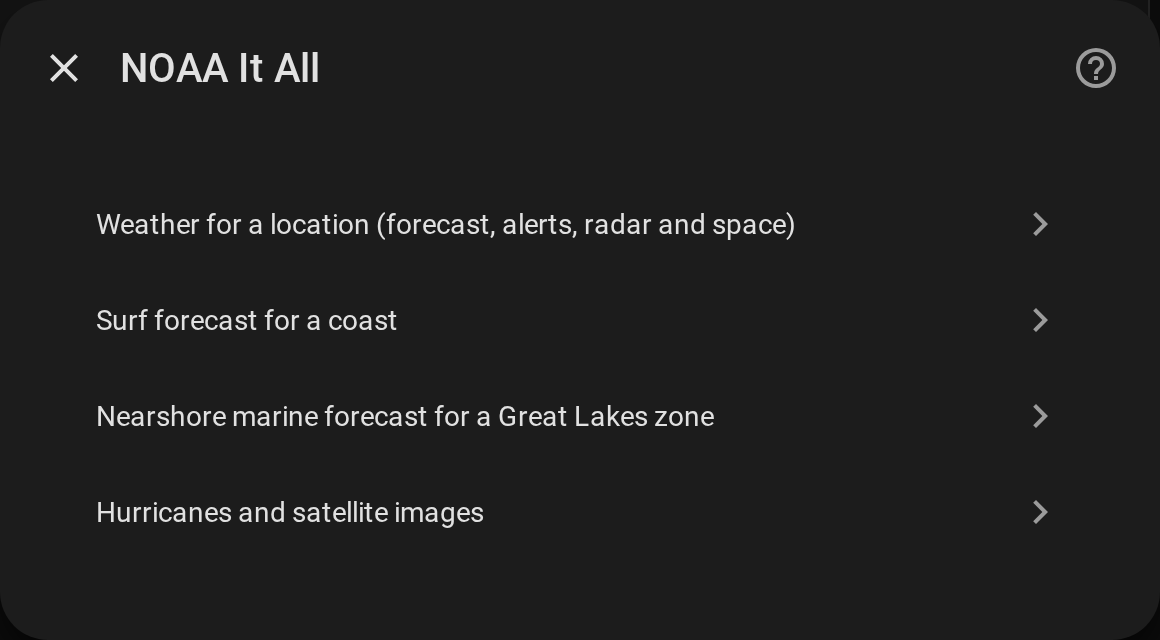
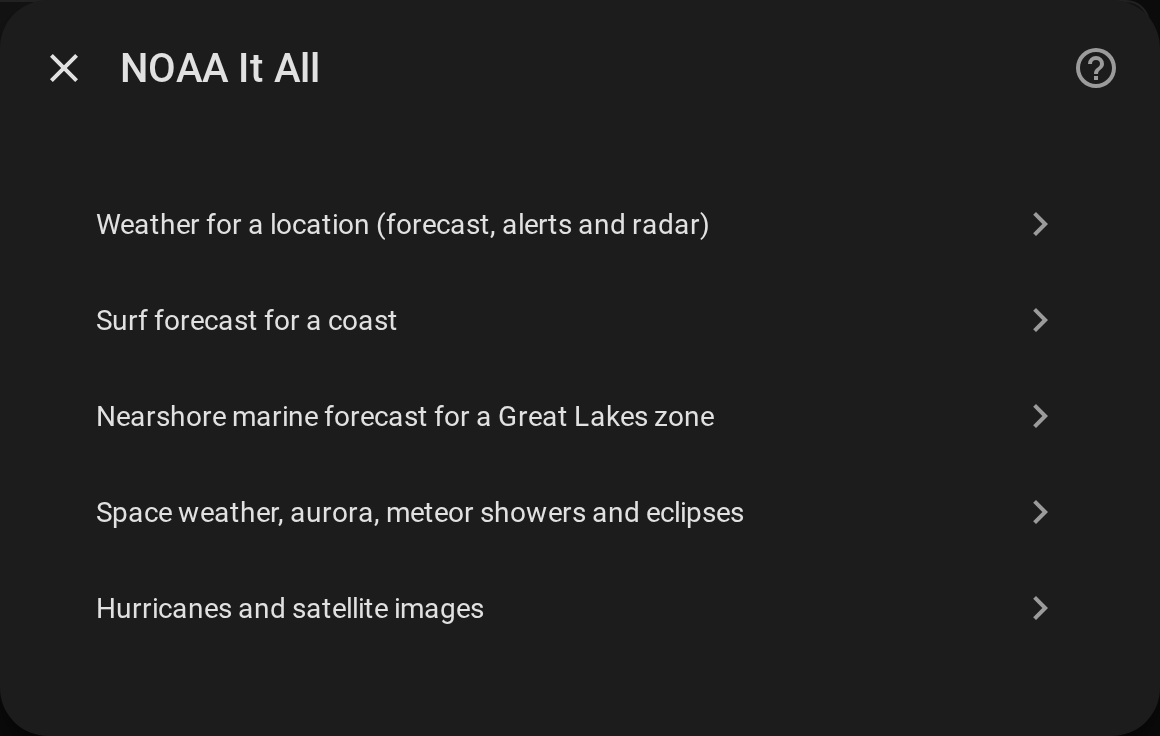
Document Space entries
The setup steps, entry list, device groups and upgrade notes describe Space as an entry of its own, with screenshots of the new menu, the Space step and the entries page from Home Assistant 2026.10.1.

diff --git a/README.md b/README.md
@@ -45,26 +45,27 @@ Requires Home Assistant **2026.3.0** or newer.
 
 ### Configuration
 
-The integration has four kinds of entry, each listed separately under **Settings → Devices & services → NOAA It All**:
+The integration has five kinds of entry, each listed separately under **Settings → Devices & services → NOAA It All**:
 
-| Entry | Title | Devices |
+| Entry | Title | Device |
 |---|---|---|
-| Weather for a location | `NOAA Weather - Wilmington, NC` | `NOAA ILM Weather`, `NOAA ILM Space` |
+| Weather for a location | `NOAA Weather - Wilmington, NC` | `NOAA ILM Weather` |
 | Surf forecast for a coast | `NOAA Surf - Wilmington, NC` | `NOAA ILM Surf` |
 | Nearshore marine forecast for a Great Lakes zone | `NOAA Marine - Wilmette Harbor to Northerly Island IL` | `NOAA LMZ741 Marine` |
+| Space weather, aurora, meteor showers and eclipses | `NOAA Space - Wilmington, NC` | `NOAA ILM Space` |
 | Hurricanes and satellite images | `NOAA Hurricane` | `NOAA Hurricane` |
 
 <p align="left">
-<img width="560" alt="The NOAA It All page under Devices &amp; services, with a Hurricane, a Marine, a Surf and a Weather entry" src="docs/images/entries.png" />
+<img width="560" alt="The NOAA It All page under Devices &amp; services, with a Hurricane, a Marine, a Space, a Surf and a Weather entry" src="docs/images/entries.png" />
 </p>
 
 #### Add a location
 
 1. Go to **Settings** → **Devices & services** → **Add integration**, search for "NOAA It All", and choose **Weather for a location**.
 
-   <img width="420" alt="The NOAA It All setup menu: Weather for a location, Surf forecast for a coast, Nearshore marine forecast for a Great Lakes zone, Hurricanes and satellite images" src="docs/images/setup-menu.png" />
+   <img width="420" alt="The NOAA It All setup menu: Weather for a location, Surf forecast for a coast, Nearshore marine forecast for a Great Lakes zone, Space weather, aurora, meteor showers and eclipses, Hurricanes and satellite images" src="docs/images/setup-menu.png" />
 
-2. Enter the **latitude and longitude** (required). They're pre-filled from your Home Assistant Home zone; change them to use another location. Observations come from the NWS station nearest to them, and alerts, forecasts, cloud cover, aurora, meteor shower and eclipse entities use them too.
+2. Enter the **latitude and longitude** (required). They're pre-filled from your Home Assistant Home zone; change them to use another location. Observations come from the NWS station nearest to them, and alerts, forecasts and cloud cover use them too, as does the Space entry added in step 5.
 
    <img width="420" alt="Weather for a Location step with latitude and longitude fields" src="docs/images/setup-location.png" />
 
@@ -79,13 +80,19 @@ The integration has four kinds of entry, each listed separately under **Settings
 
    <img width="420" alt="Choose Surf Forecast Office step with ILM - Wilmington, NC selected" src="docs/images/setup-surf.png" />
 
-5. Assign the devices to areas, or choose **Skip and finish**. A weather entry has two devices, `NOAA ILM Weather` and `NOAA ILM Space`. The surf entry, and the hurricane entry on a first setup, are added alongside it.
+5. Choose **Space**: space weather, aurora, meteor showers and eclipses, as a `NOAA Space` entry named after the forecast office. `NOAA ILM Space - this location` adds it, worked out for this location. Each office has one Space entry:
+   - **already added** means the office has one already. The location shares it, and it stays at its own location.
+   - The other offices' Space entries are listed as **already added** too. Choosing one, or **No space data**, adds nothing.
 
-   <img width="420" alt="Name and assign step listing the NOAA ILM Space and NOAA ILM Weather devices" src="docs/images/setup-devices.png" />
+   <img width="420" alt="Add Space step with NOAA ILM Space - this location selected" src="docs/images/setup-space.png" />
+
+6. Assign the device to an area, or choose **Skip and finish**. A weather entry has one device, `NOAA ILM Weather`. The surf and Space entries, and the hurricane entry on a first setup, are added alongside it.
+
+   <img width="420" alt="Name and assign step listing the NOAA ILM Weather device" src="docs/images/setup-devices.png" />
 
 A location set up as the integration's first entry also adds the `NOAA Hurricane` entry. Delete it if you don't want hurricane and satellite entities; nothing adds it back.
 
-#### Add more beaches, marine zones or hurricanes
+#### Add more beaches, marine zones, Space or hurricanes
 
 Use **Add entry** on the NOAA It All page and pick from the same menu. **Hurricanes and satellite images** is only offered while there's no `NOAA Hurricane` entry.
 
@@ -97,13 +104,19 @@ Use **Add entry** on the NOAA It All page and pick from the same menu. **Hurrica
 
   <img width="420" alt="Nearshore Marine Forecast step with LMZ741 entered as the marine zone ID" src="docs/images/setup-marine.png" />
 
+- **Space weather, aurora, meteor showers and eclipses** asks for a location, pre-filled from your Home zone, then the forecast office it's named after. Use it for aurora, meteor showers and eclipses somewhere other than your weather locations, such as a cabin near Marquette (`NOAA MQT Space`). Each office has one Space entry, so an office that has one is refused.
+
 #### Change a location
 
-**Configure** (the gear on a `NOAA Weather` entry) walks through the latitude and longitude, the forecast office, then how many hours the radar loop covers (see [Radar loop history](#image-entities)). Surf, marine and hurricane entries have nothing to configure: add or delete them instead.
+**Configure** (the gear on a `NOAA Weather` entry) walks through the latitude and longitude, the forecast office, then how many hours the radar loop covers (see [Radar loop history](#image-entities)). Surf, marine, Space and hurricane entries have nothing to configure: add or delete them instead. A Space entry doesn't move with a weather entry; for a new office, add Space there and delete the old one.
 
 <p align="left">
 <img width="420" alt="Radar Loop History options step with Hours of radar history set to 24" src="docs/images/options-radar.png" />
 </p>
+
+#### Upgrading from 0.9.x
+
+Upgrading moves each weather entry's `NOAA {OFFICE} Space` device into a `NOAA Space` entry for its office, at that entry's location, keeping the entity IDs and history. Weather entries in the same office share one Space entry. Going back to 0.9.x afterwards needs the integration removed and added again.
 
 #### Upgrading from 0.7.x
 
@@ -118,7 +131,7 @@ Upgrading splits each existing entry once: the location becomes a `NOAA Weather`
 
 ## Device Grouping and Organization
 
-Every entity belongs to one of five kinds of device. A weather entry has a Weather and a Space device for its office, and each surf, marine and hurricane entry has one device. The screenshots below are from a Wilmington, NC (ILM) setup.
+Every entity belongs to one of five kinds of device, one for each kind of entry. The screenshots below are from a Wilmington, NC (ILM) setup.
 
 ### Device Groups Overview
 
@@ -134,9 +147,10 @@ Location-specific weather observations, forecasts, alerts and radar, in the `NOA
 </p>
 
 #### 🌌 NOAA {OFFICE} Space
-Space weather (geomagnetic storms, Kp, aurora, solar radiation storms) plus the meteor shower and eclipse forecasts, in the `NOAA Weather - <office>` entry
+Space weather (geomagnetic storms, Kp, aurora, solar radiation storms) plus the meteor shower and eclipse forecasts, in the office's `NOAA Space - <office>` entry
 - **Device ID**: `noaa_{office}_space` (e.g., `noaa_ILM_space`)
-- **Location**: Space weather is global; aurora, meteor shower and eclipse entities use your configured latitude and longitude
+- **Location**: Space weather is global; aurora, meteor shower and eclipse entities use the Space entry's location
+- **More than one Space entry**: space weather is the same everywhere, so these show the same values in each: Planetary K-index and its rating, Geomagnetic Storm and its interpretation, Solar Radiation Storm Alerts, and the Geoelectric Field and Aurora Forecast images. Aurora, meteor shower and eclipse entities are worked out for each entry
 - **Update Frequency**: 10 minutes for space weather and its images, 30 minutes for meteor showers. Eclipses recompute hourly, every 5 minutes in the 6 hours before one, and every minute while one is under way
 - **Entities**: 20: eight space weather sensors, three meteor shower and four eclipse sensors, three binary sensors, and two images
 
@@ -328,7 +342,7 @@ Location-aware aurora visibility predictions *(NOAA Space)*:
 - **Aurora Duration**: Estimated length of aurora visibility in hours based on geomagnetic conditions *(sensor.noaa_{office}_space_aurora_duration)*
 - **Aurora Visibility Probability**: Percentage chance of aurora visibility from your specific location *(sensor.noaa_{office}_space_aurora_visibility_probability)*
 
-> **Note**: Aurora predictions are based on real-time Kp index data and the magnetic latitude of your office (for the coastal offices) or of your configured location (for any other office). Northern locations (like Duluth, MN) have much higher visibility potential than southern locations (like Miami, FL).
+> **Note**: Aurora predictions are based on real-time Kp index data and the magnetic latitude of the Space entry's office (for the coastal offices) or of its location (for any other office). Northern locations (like Duluth, MN) have much higher visibility potential than southern locations (like Miami, FL).
 
 ### Solar Radiation Storm Alerts
 Location-aware monitoring of solar radiation storm activity *(NOAA Space)*:
@@ -434,7 +448,7 @@ These sensors provide additional weather data where available from NOAA/NWS *(NO
 ### Image Entities
 Visual representations of current conditions:
 
-**NOAA {OFFICE} Space** (global images, one set per weather entry):
+**NOAA {OFFICE} Space** (global images, one set per Space entry):
 - **Geoelectric Field Image** — Real-time geoelectric field map from SWPC *(image.noaa_{office}_space_geoelectric_field_image)*
 - **Aurora Forecast Image** — SWPC's aurora forecast map for the northern hemisphere *(image.noaa_{office}_space_aurora_forecast_image)*
 
@@ -1540,7 +1554,7 @@ content: |
 
 ### Entities Not Appearing
 - Ensure you completed setup with valid latitude and longitude
-- Surf entities are in their own `NOAA Surf` entry, and hurricane and satellite entities in the `NOAA Hurricane` entry. If you chose **No surf data** or deleted the hurricane entry, add them back with **Add entry**
+- Surf entities are in their own `NOAA Surf` entry, space weather, aurora, meteor shower and eclipse entities in a `NOAA Space` entry, and hurricane and satellite entities in the `NOAA Hurricane` entry. If you chose **No surf data** or **No space data**, or deleted the hurricane entry, add them back with **Add entry**
 - A new surf entry only gets Water Temperature and Surf Height if its office has a tide station or buoy; see [NWS Forecast Offices](#nws-forecast-offices)
 - After upgrading, reload the Home Assistant page so the new setup screens show
 - Check **Settings** → **System** → **Logs** for any error messages from `noaa_it_all`
@@ -1585,7 +1599,7 @@ A: No. Setup requires latitude and longitude. They are pre-filled from your Home
 A: You don't need to: setup asks NWS which office covers your coordinates and pre-selects it. To look one up yourself, search for your location on [weather.gov](https://www.weather.gov/); the three-letter office code appears in the URL of your local forecast page (e.g., `forecast.weather.gov/MapClick.php?CityName=San+Diego&state=CA&site=SGX`).
 
 **Q: Why don't I see aurora predictions?**
-A: The aurora sensors are on the `NOAA {OFFICE} Space` device of a weather entry. Aurora is only visible at high Kp levels for southern latitudes — check the Planetary K-index value and the `magnetic_latitude` and `required_kp` attributes of Aurora Visibility Probability.
+A: The aurora sensors are on the `NOAA {OFFICE} Space` device of a `NOAA Space` entry. Aurora is only visible at high Kp levels for southern latitudes — check the Planetary K-index value and the `magnetic_latitude` and `required_kp` attributes of Aurora Visibility Probability.
 
 **Q: How often does data update?**
 A: Most entities update every 10 minutes; see [Update Frequency](#update-frequency).

diff --git a/CONFIGURATION.md b/CONFIGURATION.md
@@ -14,9 +14,10 @@ This guide provides detailed configuration examples for NOAA It All, including e
 ## Installation Methods
 
 ### Config Flow
-Setup is done in the UI, and the integration has four kinds of entry: weather for a location, surf
-forecast for a coast, nearshore marine forecast for a Great Lakes zone, and hurricanes and
-satellite images. The [README](README.md#configuration) walks through each with screenshots.
+Setup is done in the UI, and the integration has five kinds of entry: weather for a location, surf
+forecast for a coast, nearshore marine forecast for a Great Lakes zone, Space (space weather,
+aurora, meteor showers and eclipses) and hurricanes and satellite images. The
+[README](README.md#configuration) walks through each with screenshots.
 
 **Steps for a location:**
 1. Navigate to **Settings** → **Devices & services** → **Add integration**
@@ -24,10 +25,13 @@ satellite images. The [README](README.md#configuration) walks through each with 
 3. Enter your **Latitude** and **Longitude** (e.g., 34.2104, -77.8868), pre-filled from your Home zone
 4. Select your NWS Forecast Office. The office NWS names for your location is pre-selected (e.g., ILM for Wilmington)
 5. Choose a surf forecast office, or **No surf data**
-6. Click Submit, then **Skip and finish** or assign the devices to areas
+6. Choose Space for the office, or **No space data**
+7. Click Submit, then **Skip and finish** or assign the device to an area
 
-The surf office becomes its own `NOAA Surf` entry. Add more beaches, marine zones, or the hurricane
-entry later with **Add entry** on the NOAA It All page.
+The surf office becomes its own `NOAA Surf` entry, and Space a `NOAA Space` entry for the forecast
+office, at this location. Each office has one Space entry, which other locations in it share. Add
+more beaches, marine zones, Space for another office, or the hurricane entry later with **Add
+entry** on the NOAA It All page.
 
 **Example Configuration Data:**
 ```yaml
@@ -35,6 +39,12 @@ entry later with **Add entry** on the NOAA It All page.
 entry_type: "weather"
 office_code: "ILM"
 radar_site: "KLTX"
+latitude: 34.2104
+longitude: -77.8868
+
+# A Space entry
+entry_type: "space"
+office_code: "ILM"
 latitude: 34.2104
 longitude: -77.8868
 ```
@@ -51,11 +61,12 @@ longitude: -77.8868
 **Settings** → **Devices & services** → **NOAA It All** → **Configure** (the gear on a
 `NOAA Weather` entry). The flow walks through latitude and longitude, then the forecast office,
 then the radar loop. Saving reloads the entry so the new values take effect immediately. Surf,
-marine and hurricane entries have no options: add or delete them instead.
+marine, Space and hurricane entries have no options: add or delete them instead. A Space entry
+doesn't move with the weather entry.
 
 | Option | Default | Notes |
 |---|---|---|
-| Latitude / Longitude | Home Assistant's Home location | Used for observations, forecasts, alerts, aurora, meteor showers and eclipses |
+| Latitude / Longitude | Home Assistant's Home location | Used for observations, forecasts, alerts and cloud cover |
 | NWS Forecast Office | The office NWS names for those coordinates | Determines the entity IDs, radar site and forecast discussion |
 | Hours of radar history | `24` | Length of the Radar Loop animation, `0`–`24` |
 
@@ -183,9 +194,8 @@ homeassistant:
 
 ## Device Grouping
 
-NOAA It All organizes entities into five kinds of device. A `NOAA Weather` entry has the Weather
-and Space devices for its office; each `NOAA Surf`, `NOAA Marine` and `NOAA Hurricane` entry has
-one device.
+NOAA It All organizes entities into five kinds of device, one for each kind of entry: `NOAA
+Weather`, `NOAA Space`, `NOAA Surf`, `NOAA Marine` and `NOAA Hurricane`.
 
 ### 1. NOAA {OFFICE} Weather (Observations, Forecasts, Alerts & Radar)
 Entities for your configured location, in the `NOAA Weather` entry.
@@ -216,7 +226,10 @@ Entities for your configured location, in the `NOAA Weather` entry.
 
 ### 2. NOAA {OFFICE} Space (Space Weather, Meteor Showers & Eclipses)
 Entities that monitor space weather conditions worldwide, plus the aurora, meteor shower and
-eclipse forecasts for your configured location, in the `NOAA Weather` entry.
+eclipse forecasts for the entry's location, in the office's `NOAA Space` entry. With more than one
+Space entry, the space weather entities show the same values in each: the Kp index and its
+rating, the geomagnetic storm and its interpretation, the solar radiation storm alerts and the two
+images.
 
 **Entities in this group:**
 - `sensor.noaa_{office}_space_planetary_k_index`
@@ -563,8 +576,8 @@ space_weather_check:
 
 ### Entities Not Appearing
 - Verify setup includes latitude and longitude
-- Surf and hurricane entities are in their own `NOAA Surf` and `NOAA Hurricane` entries; add them
-  with **Add entry** if they're missing
+- Surf, space and hurricane entities are in their own `NOAA Surf`, `NOAA Space` and
+  `NOAA Hurricane` entries; add them with **Add entry** if they're missing
 - A new surf entry only gets Water Temperature and Surf Height if its office has a tide station or
   buoy (see the [README](README.md#nws-forecast-offices))
 

diff --git a/info.md b/info.md
@@ -65,9 +65,10 @@ Comprehensive NOAA data integration providing weather observations, forecasts, a
 3. Enter your **Latitude and Longitude** (pre-filled from your Home zone)
 4. Select your **NWS Forecast Office**; the one NWS names for your location is pre-selected
 5. Choose a **surf forecast office**, or **No surf data**
-6. Complete setup
+6. Choose **Space** for the office, or **No space data**
+7. Complete setup
 
-The surf office becomes its own `NOAA Surf` entry, and the first location also adds the `NOAA Hurricane` entry. Use **Add entry** for more beaches, Great Lakes marine zones, or hurricanes.
+The surf office becomes its own `NOAA Surf` entry and Space a `NOAA Space` entry for the office, and the first location also adds the `NOAA Hurricane` entry. Use **Add entry** for more beaches, Great Lakes marine zones, Space for another office, or hurricanes.
 
 #### Legacy YAML Configuration
 
@@ -80,7 +81,7 @@ The surf office becomes its own `NOAA Surf` entry, and the first location also a
 
 Entities are automatically grouped into logical devices:
 - **NOAA {OFFICE} Weather** - Observations, forecasts, radar and severe weather alerts
-- **NOAA {OFFICE} Space** - Space weather, aurora, meteor shower and eclipse data
+- **NOAA {OFFICE} Space** - Space weather, aurora, meteor shower and eclipse data, one Space entry per office
 - **NOAA {OFFICE} Surf** - Surf and ocean conditions for one coastal office
 - **NOAA {ZONE} Marine** - The nearshore marine forecast for one Great Lakes zone
 - **NOAA Hurricane** - Global tropical data and satellite imagery, created once across all offices
